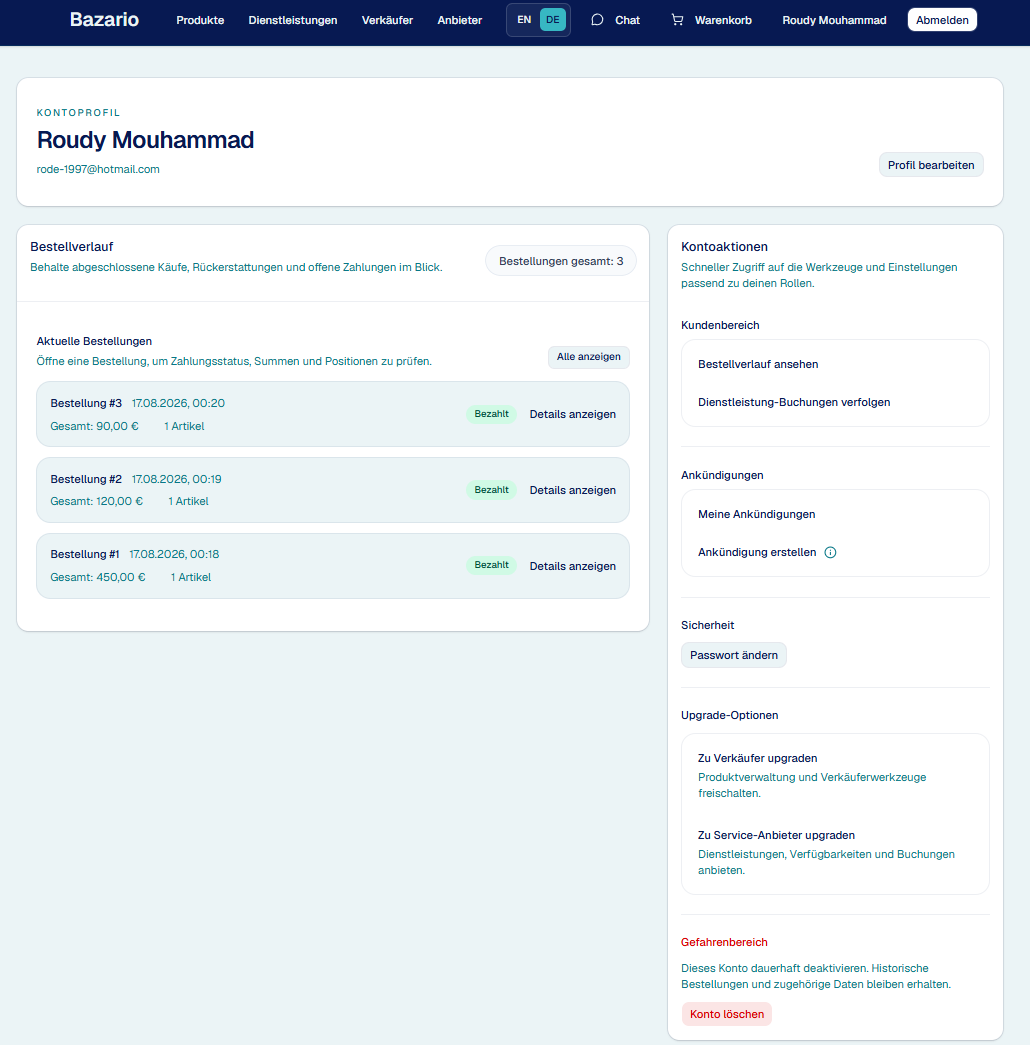
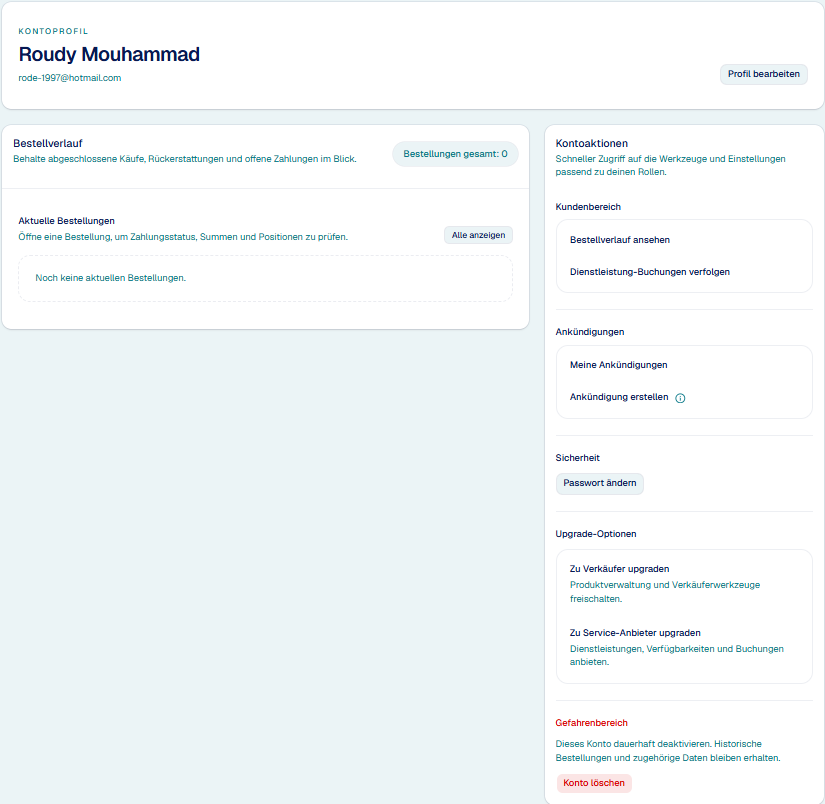
gepusht

diff --git a/Kapitel/5_Prototypische_Umsetzung.tex b/Kapitel/5_Prototypische_Umsetzung.tex
@@ -347,12 +347,25 @@ Arten der Prüfung nebeneinander.
 
 \begin{figure}[H]
 \centering
-\includegraphics[width=0.40\textwidth]{Bilder/screenshot_registrierung_fehler.png}
-\caption{Registrierungsformular mit einem Formatfehler im
-E-Mail-Feld und einer feldübergreifenden Abweichung zwischen Passwort
-und Bestätigung}
+\begin{minipage}{0.45\textwidth}
+  \centering
+  \includegraphics[width=\textwidth]{Bilder/screenshot_registrierung_fehler.png}
+\end{minipage}\hfill
+\begin{minipage}{0.45\textwidth}
+  \centering
+  \includegraphics[width=\textwidth]{Bilder/screenshot_registrierung_fehler_ar.png}
+\end{minipage}
+\caption{Registrierungsformular mit einem Formatfehler im E-Mail-Feld
+und einer feldübergreifenden Abweichung zwischen Passwort und
+Bestätigung, links in deutscher, rechts in arabischer Fassung mit
+umgekehrter Schreibrichtung}
 \label{fig:registrierung_fehler}
 \end{figure}
+Die arabische Fassung zeigt zugleich die Wirkung der zentral
+gesetzten Schreibrichtung (vgl. Abschnitt~\ref{sec:impl_i18n}):
+Beschriftungen, Meldungen und die Anordnung der Felder folgen der
+Richtung von rechts nach links, während die E-Mail-Adresse als
+richtungsunabhängiger Wert von links nach rechts stehen bleibt.
 
 Die Meldungen stehen unmittelbar unter dem betroffenen Feld,
 benennen die verletzte Regel und bleiben stehen, bis die Eingabe
